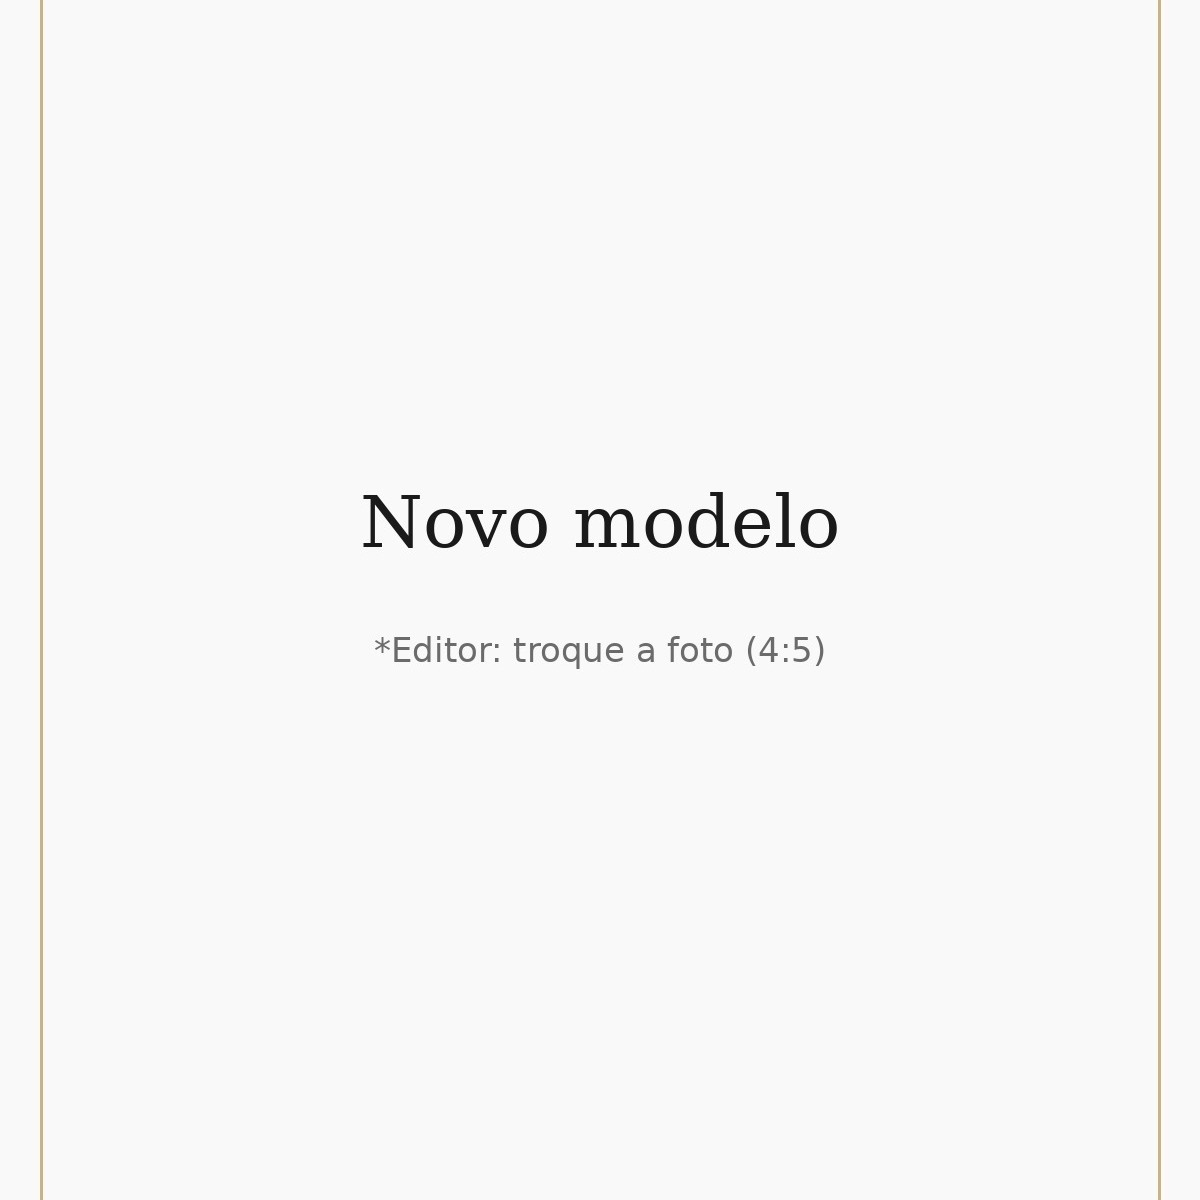
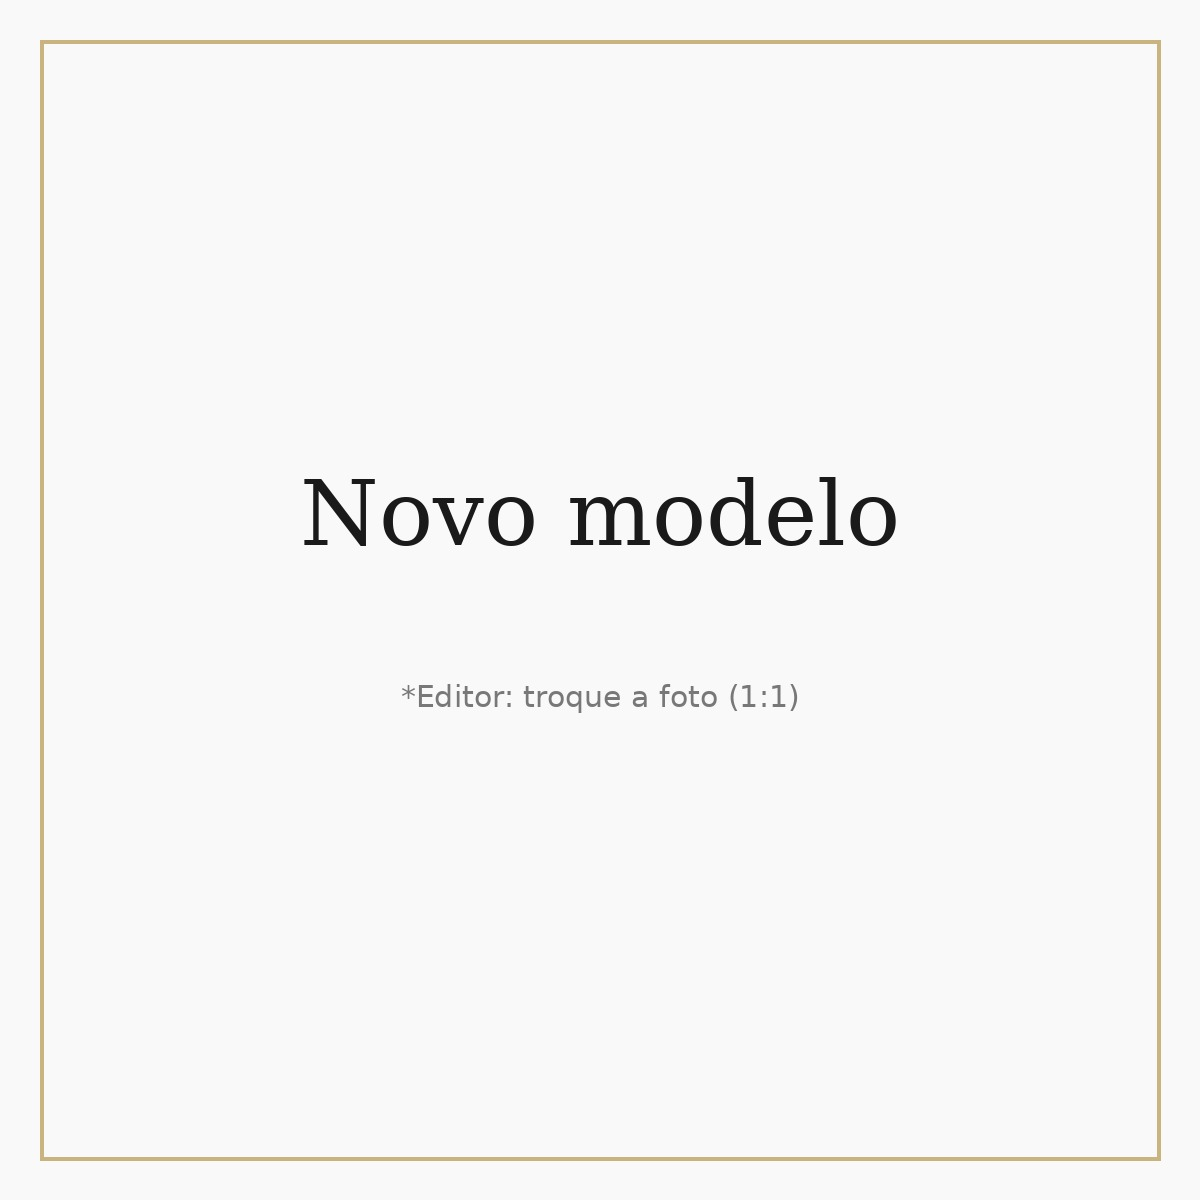
Add files via upload

diff --git a/assets/css/style.css b/assets/css/style.css
@@ -82,7 +82,8 @@ h3{font-size:20px;letter-spacing:.02em;}
   grid-column:span 6;background:var(--paper);
   border-radius:var(--radius);border:1px solid rgba(0,0,0,.06);overflow:hidden;
 }
-.card-media img{width:100%;aspect-ratio:1/1;object-fit:cover;} /* *Editor: foto principal 1:1 (ex.: 1200x1200) */
+.card-media{width:100%;}
+.card-media img{width:100%;aspect-ratio:1/1;object-fit:cover;object-position:center;} /* *Editor: foto principal 1:1 (ex.: 1200x1200) */
 .card-body{padding:var(--s3);}
 .card-title{display:flex;align-items:baseline;justify-content:space-between;gap:14px;}
 .card-title h3{margin:0;}
@@ -181,7 +182,7 @@ nav a{white-space:nowrap;}
 
 @media (max-width:980px){
   .hero-grid{grid-template-columns:1fr;gap:var(--s4);}
-  .card{grid-column:span 12;}
+  .card{grid-column:span 12;max-width:100%;margin:0 auto;}
   .process-grid{grid-template-columns:1fr;gap:var(--s4);}
   .form-row{grid-template-columns:1fr;}
   .brand img{width:150px;}
